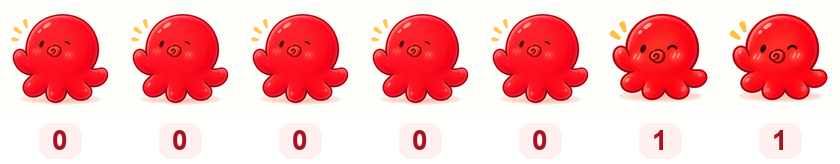
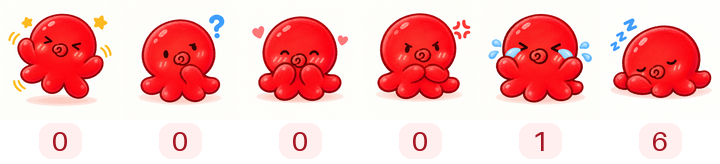
Assign six fixed octopus characters by decimal place

diff --git a/render_counter.py b/render_counter.py
@@ -6,7 +6,7 @@ import re
 import urllib.request
 import xml.etree.ElementTree as ET
 
-from PIL import Image
+from PIL import Image, ImageDraw, ImageFont
 
 
 def read_count():
@@ -29,12 +29,21 @@ def read_count():
 
 
 def render(number, destination):
-    digits = str(number).zfill(7)
+    if not 0 <= number <= 999999:
+        raise ValueError("The six-place counter supports counts from 0 to 999999")
+    digits = str(number).zfill(6)
     tile_dir = Path(__file__).parent / "assets" / "octopus-digits"
-    canvas = Image.new("RGB", (120 * len(digits), 164), "white")
+    canvas = Image.new("RGB", (720, 164), "white")
+    font = ImageFont.load_default(size=28)
     for index, digit in enumerate(digits):
-        with Image.open(tile_dir / f"{digit}.png") as tile:
-            canvas.paste(tile.convert("RGB"), (120 * index, 0))
+        # Left to right: hundred-thousands (dance) ... units (sleep).
+        character = 9 - index
+        with Image.open(tile_dir / f"{character}.png") as tile:
+            canvas.paste(tile.convert("RGB").crop((0, 0, 120, 120)), (120 * index, 0))
+        draw = ImageDraw.Draw(canvas)
+        left = 120 * index
+        draw.rounded_rectangle((left + 39, 123, left + 81, 158), radius=12, fill="#fff0ef")
+        draw.text((left + 60, 140), digit, font=font, fill="#a51623", anchor="mm")
     destination.parent.mkdir(parents=True, exist_ok=True)
     canvas.save(destination, optimize=True)
 

diff --git a/SETUP.md b/SETUP.md
@@ -33,12 +33,12 @@ github-metrics.svg
 
 Star History 默认跟踪 `XINGYI-PU/XINGYI-PU` 仓库收到的 Star。若想展示某个项目，替换 README 中全部 `XINGYI-PU/XINGYI-PU`（包括明暗主题图片 URL 和跳转链接）；没有 Star 时图表可能为空。
 
-致谢下方的访客徽章和 Profile Views 章鱼计数器使用同一个 visitor-badge.laobi.icu 计数 ID（XINGYI-PU.XINGYI-PU）。章鱼图片由 Update Octopus Counter 工作流每小时同步，初始补齐七位数字；每位数字的形象固定。这个服务记录图片请求，受缓存、重复访问及自动同步请求影响，不等于独立访客人数。原 Moe Counter 服务阻止了自动读取，已不再使用其计数数据。
+致谢下方的访客徽章和 Profile Views 章鱼计数器使用同一个 visitor-badge.laobi.icu 计数 ID（XINGYI-PU.XINGYI-PU）。章鱼图片由 Update Octopus Counter 工作流每小时同步，固定显示六位数字；章鱼形象按数位固定，数字随访问数更新。这个服务记录图片请求，受缓存、重复访问及自动同步请求影响，不等于独立访客人数。原 Moe Counter 服务阻止了自动读取，已不再使用其计数数据。
 
 若图片无法显示：先检查 Actions 日志；确认图片已生成、仓库允许 Actions 写入、默认分支未阻止机器人提交；Metrics 失败时检查 `METRICS_TOKEN` 是否过期。第三方访问计数和 Star History 图片还依赖各自服务的可用性。
 
 ## 章鱼数字主题
 
-0：原章鱼；1：招手；2：大笑；3：惊讶；4：睡觉；5：哭泣；6：生气；7：爱心；8：疑惑；9：跳舞。
+个位：睡觉；十位：哭泣；百位：生气；千位：爱心；万位：疑惑；十万位：跳舞。画面从左到右按十万位至个位排列，每只下方显示该位的实际数字。支持 0–999999；超出范围时任务报错，保留最后的有效图片。
 
 复制文件包时，也需上传 `render_counter.py`、`assets/octopus-digits/`、`assets/octopus-counter.png` 和 `.github/workflows/octopus-counter.yml`。新工作流无需额外 Secret，定时在每小时第 17 分钟执行（GitHub 可能延迟）；手动运行可立即同步。数据源失败时任务报错并保留最后一次成功生成的计数图片，不会伪造或重置数字。
